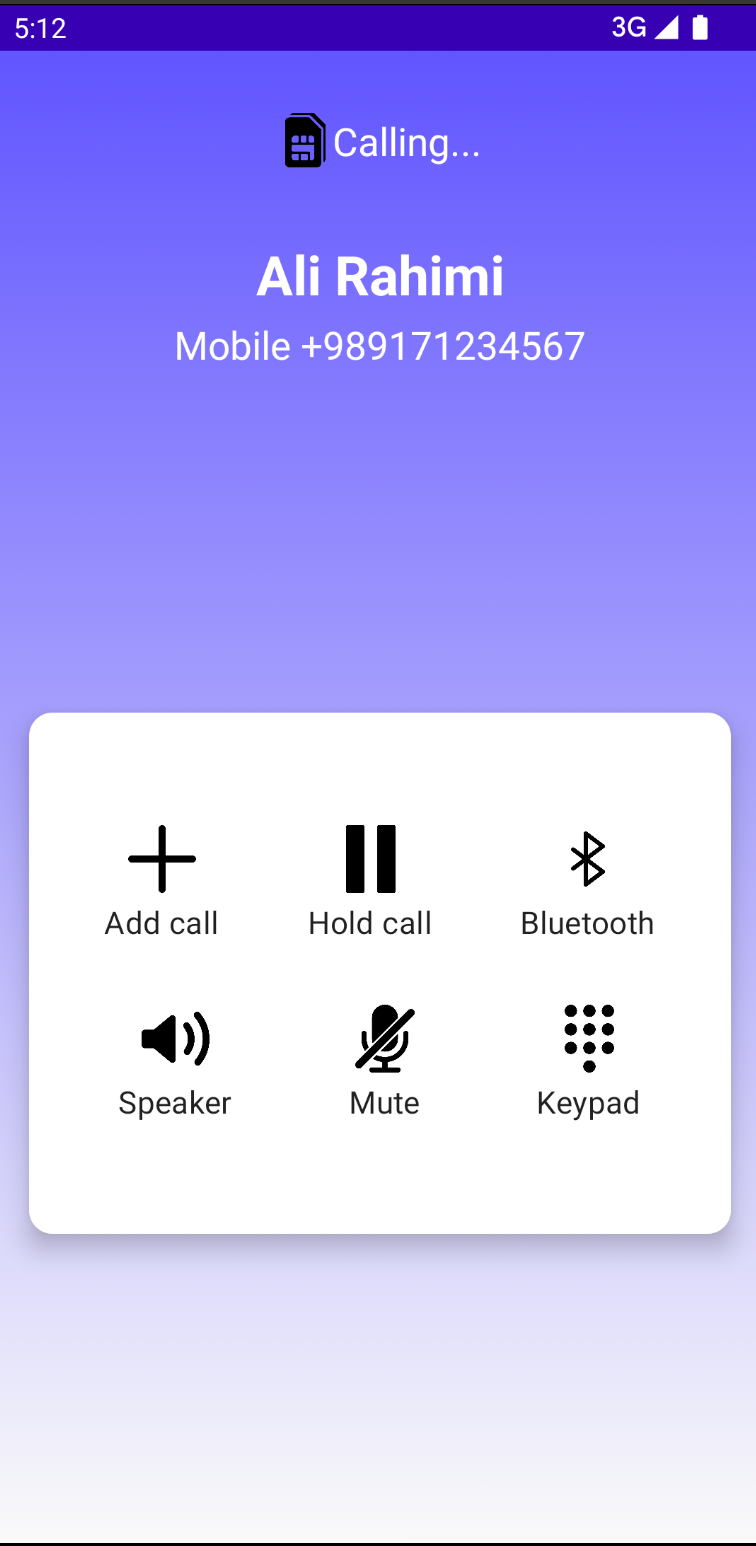
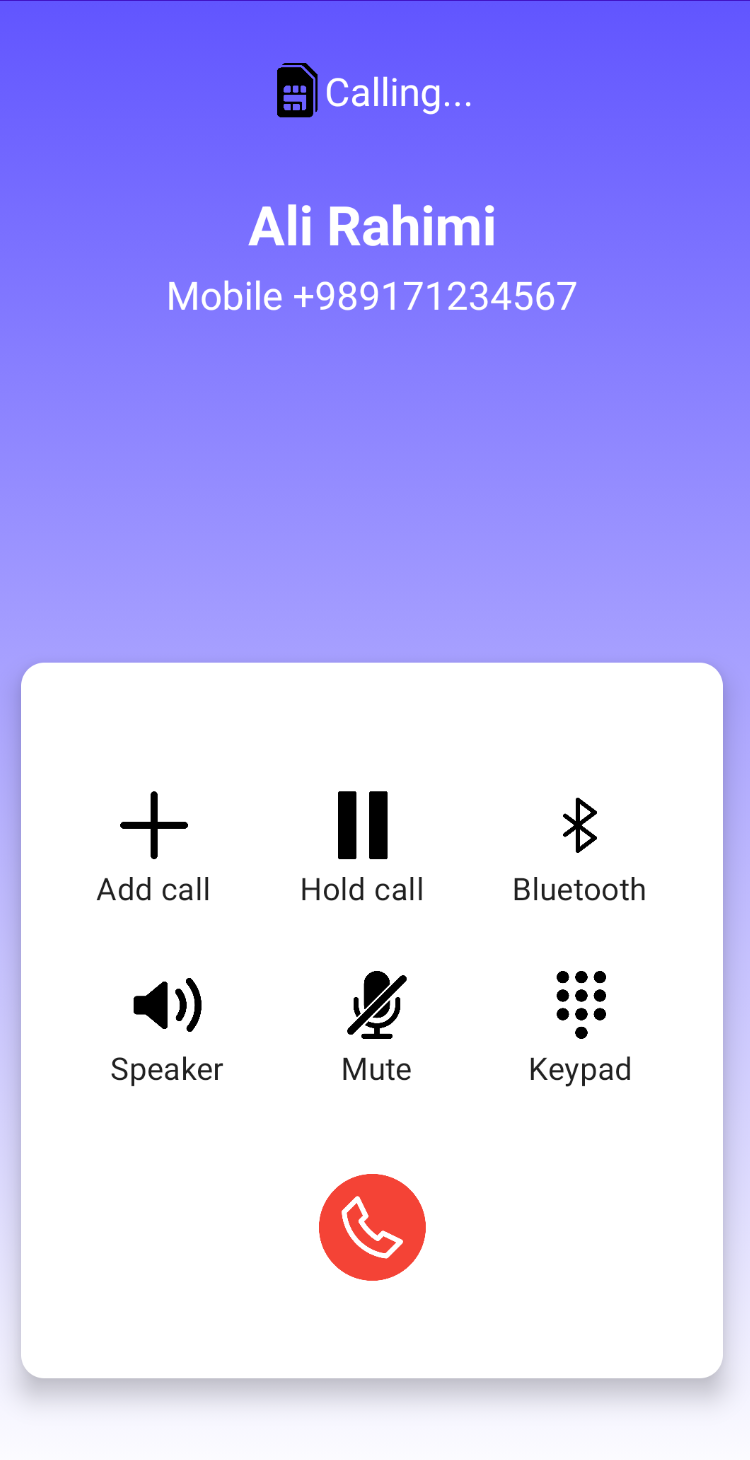
Done

diff --git a/app/src/main/java/com/alirahimi/callpage/CallPage.kt b/app/src/main/java/com/alirahimi/callpage/CallPage.kt
@@ -74,7 +74,7 @@ fun MyCallingView() {
         Card(
             modifier = Modifier
                 .fillMaxWidth()
-                .height(300.dp)
+                .height(400.dp)
                 .padding(16.dp), elevation = 10.dp, shape = RoundedCornerShape(12.dp)
         ) {
             Column(
@@ -114,6 +114,14 @@ fun MyCallingView() {
                     MyItemToShow(image = painterResource(id = R.drawable.mic), title = "Mute")
                     MyItemToShow(image = painterResource(id = R.drawable.dial), title = "Keypad")
                 }
+                
+                Spacer(modifier = Modifier.height(28.dp))
+
+                Image(
+                    painter = painterResource(id = R.drawable.phone),
+                    contentDescription = "",
+                    modifier = Modifier.size(55.dp)
+                )
 
             }
         }
